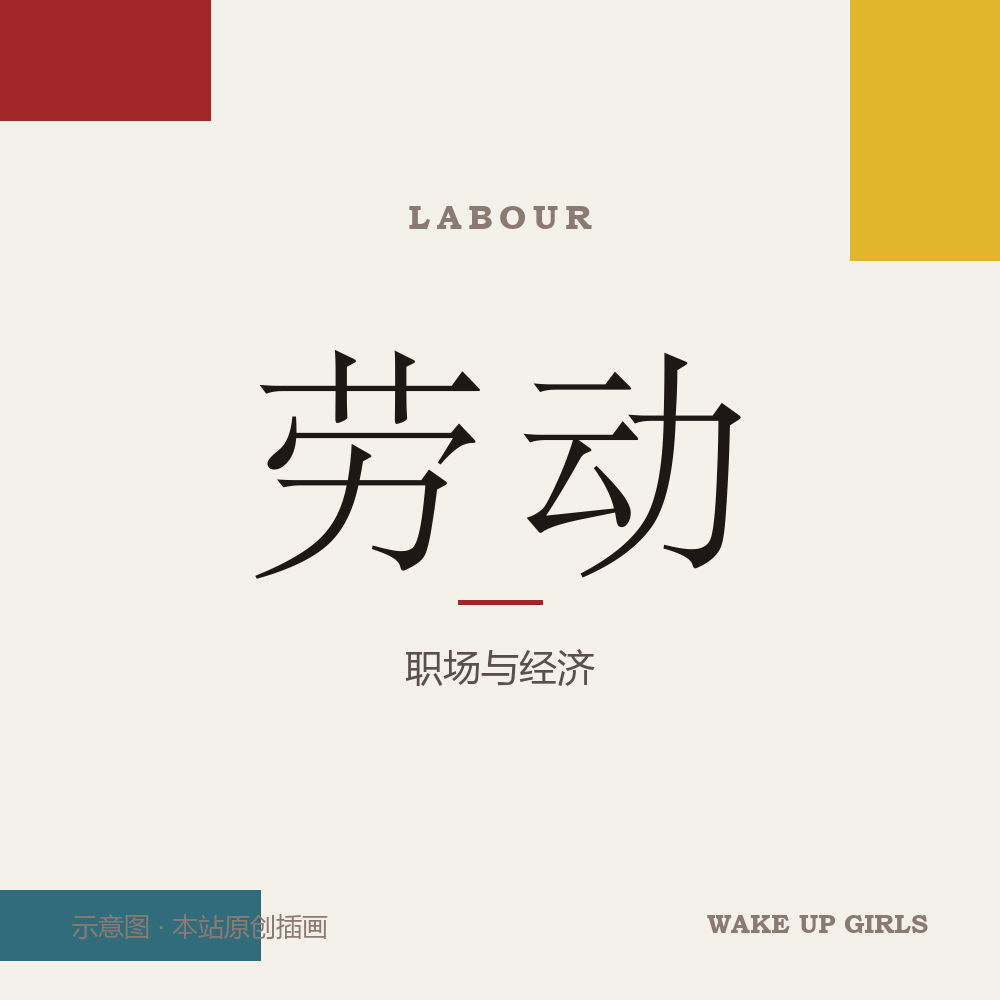
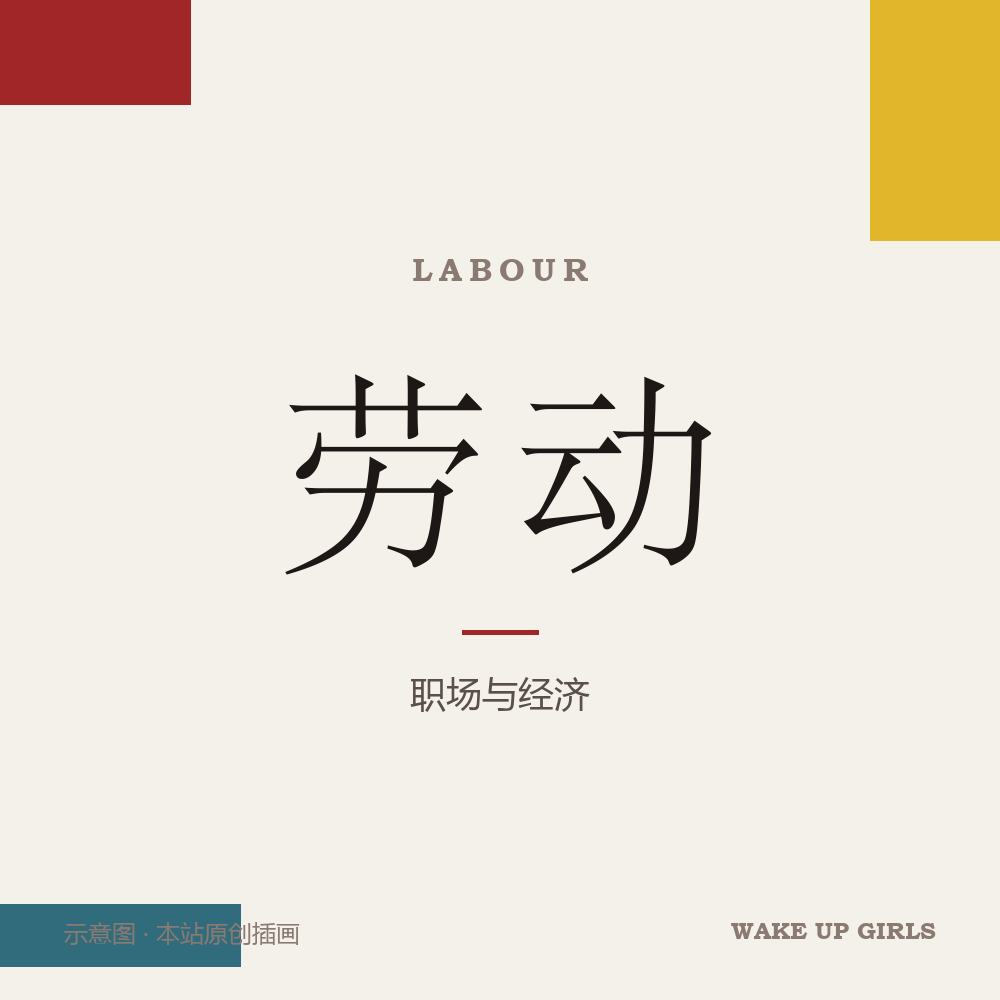
fix(images): 重做6张主题图为中央区构图，竖版画框裁切不再切掉英文标签（首页精选的VOICE曾显示不全）

diff --git a/tools/make_topic_images_v2.py b/tools/make_topic_images_v2.py
@@ -1,0 +1,95 @@
+# -*- coding: utf-8 -*-
+"""重做 6 张主题图（v2）：所有文字收进中央 60%，任何比例裁切都不丢内容
+
+v1 的问题：英文小标签放在 y=196/1000（约 20% 处），当画框是竖版（4:5）时会被裁掉，
+首页精选卡片上「VOICE」就看不见了。
+
+v2 版式（1000×1000，全部内容落在 y=180~820 之间）：
+  y=250  英文标签（居中）
+  y=330  中文大字（居中，两字并排）
+  y=640  细分隔线
+  y=680  主题说明（居中）
+四角色块故意放在边缘 —— 它们被裁掉无所谓，文字一定保留。
+用法：python tools/make_topic_images_v2.py
+"""
+import importlib.util
+import os
+import pathlib
+from PIL import Image, ImageDraw, ImageFont
+
+ROOT = pathlib.Path(__file__).resolve().parent.parent
+spec = importlib.util.spec_from_file_location('mk', str(ROOT / 'tools' / 'make_images.py'))
+mk = importlib.util.module_from_spec(spec)
+spec.loader.exec_module(mk)
+
+IMG = ROOT / 'assets' / 'img'
+F, text_w, draw_tracked = mk.font, mk.text_w, mk.draw_tracked
+SERIF_CN_B, SANS_CN, SERIF_EN_B = mk.SERIF_CN_B, mk.SANS_CN, mk.SERIF_EN_B
+WALL, INK, INK3 = mk.WALL, mk.INK, mk.INK_3
+TOPICS = mk.TOPICS
+BLOCK_SETS = mk.BLOCK_SETS
+
+
+def make_topic(fname, chars, en, sub, blocks):
+    W = H = 1000
+    im = Image.new('RGB', (W, H), WALL)
+    d = ImageDraw.Draw(im)
+
+    # 四角装饰（被裁掉也没关系）
+    d.rectangle([0, 0, 190, 104], fill=blocks[0])
+    d.rectangle([W - 130, 0, W, 240], fill=blocks[1])
+    d.rectangle([0, H - 96, 240, H - 34], fill=blocks[2])
+
+    # 英文标签 y=250（不再是 196，避开竖版裁切）
+    f_en = F(SERIF_EN_B, 32)
+    w = text_w(d, en, f_en, 7)
+    draw_tracked(d, ((W - w) / 2, 250), en, f_en, INK3, spacing=7)
+
+    # 中文大字 y=330
+    f_cn = F(SERIF_CN_B, 210)
+    cw = d.textlength(chars[0], font=f_cn)
+    gap = 22
+    total = cw * len(chars) + gap * (len(chars) - 1)
+    x = (W - total) / 2
+    for ch in chars:
+        d.text((x, 330), ch, font=f_cn, fill=INK)
+        x += cw + gap
+
+    # 中央分隔线 + 主题说明
+    d.rectangle([W / 2 - 38, 630, W / 2 + 38, 634], fill=blocks[0])
+    f_sub = F(SANS_CN, 36)
+    ws = d.textlength(sub, font=f_sub)
+    d.text(((W - ws) / 2, 668), sub, font=f_sub, fill=(90, 79, 73))
+
+    # 页脚（可被裁）
+    f_foot = F(SANS_CN, 24)
+    d.text((64, H - 84), '示意图 · 本站原创插画', font=f_foot, fill=INK3)
+    f_mark = F(SERIF_EN_B, 24)
+    d.text((W - 64 - text_w(d, 'WAKE UP GIRLS', f_mark), H - 84), 'WAKE UP GIRLS', font=f_mark, fill=INK3)
+
+    out = IMG / fname
+    im.save(out, 'PNG', optimize=True)
+    return out
+
+
+def check(p):
+    """自检：中央区域（竖版 4:5 裁切后仍在画面内的范围）是否有笔画"""
+    im = Image.open(p).convert('L')
+    w, h = im.size
+    # 4:5 竖版裁切：取中心 800×1000 → 上下不动、左右各裁 100
+    box = im.crop((100, 180, 900, 820))
+    ink = 0
+    px = box.load()
+    for y in range(0, box.size[1], 3):
+        for x in range(0, box.size[0], 3):
+            if px[x, y] < 140:
+                ink += 1
+    return ink
+
+
+if __name__ == '__main__':
+    print('重做 6 张主题图（v2：文字全部收进中央区）')
+    for i, (fn, chars, en, sub) in enumerate(TOPICS):
+        p = make_topic(fn, chars, en, sub, BLOCK_SETS[i])
+        print('  %-20s %5.1f KB ｜ 中央区笔画 %d %s' % (fn, os.path.getsize(p) / 1024, check(p),
+                                                    '✓' if check(p) > 500 else '✗ 内容偏少'))
